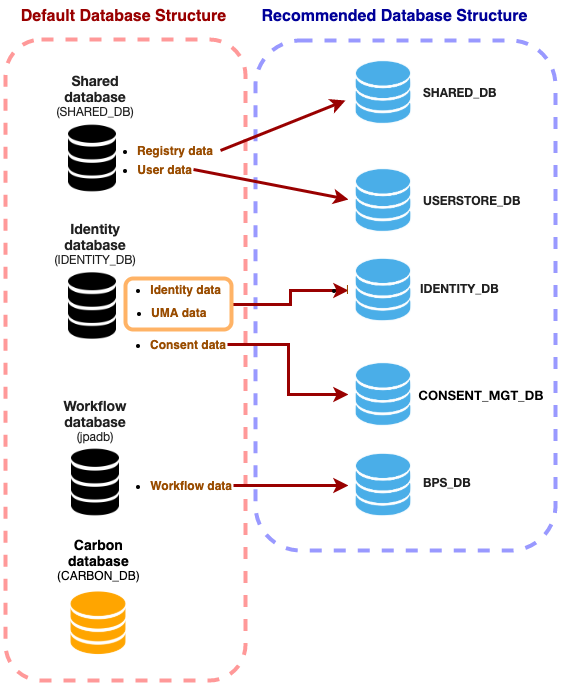
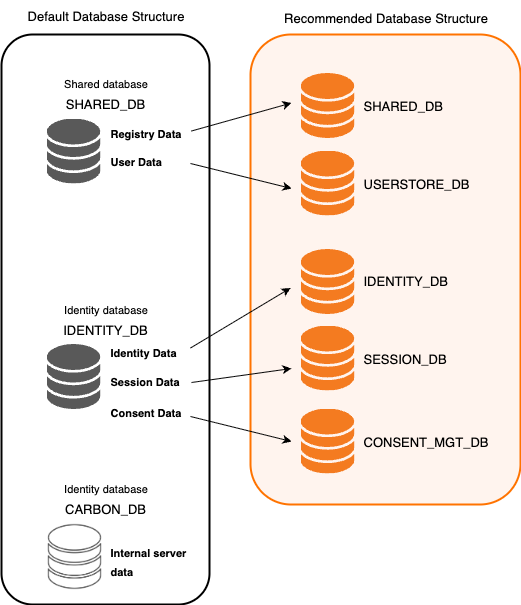
Refactor clustering db config docs and images

Changed region(s): [[0.0, 0.0, 1.0, 1.0]]

diff --git a/en/identity-server/7.0.0/docs/deploy/set-up-separate-databases-for-clustering.md b/en/identity-server/7.0.0/docs/deploy/set-up-separate-databases-for-clustering.md
@@ -1,75 +1,1 @@
-# Seperate Databases for Clustering
-
-WSO2 Identity Server uses a database to store information such as user management details and identity data. By default, WSO2 Identity Server is shipped with an embedded H2 database that works for all types of data.
-
-This section guides you through the logical separation of data that you
-can do when clustering WSO2 Identity Server.
-
-!!! warning "Embedded H2 is NOT RECOMMENDED in production"
-    The embedded H2 database is not recommended for enterprise testing and production environments. It has lower performance, and clustering limitations, and can cause file corruption failures. Therefore, use an industry-standard RDBMS such as Oracle, PostgreSQL, MySQL, or MS SQL instead.
-
-    !!! tip "Before you begin"
-        Creating separate databases as shown below is not mandatory. Instead, you can point to all the following data sources according to the default data structure. This will not make a difference in performance. <!-- TODO For more information on default database structure, see [Working with Databases]({{base_path}}/deploy/work-with-databases).-->
-
-The following image shows the default database structure and a recommended database structure for the logical separation of data.
-
-![Separate-databases-for-clustering]({{base_path}}/assets/img/setup/deploy/separate-databases-for-clustering.png)
-
-<table>
-<thead>
-<tr class="header">
-<th>Database Name</th>
-<th>Description</th>
-</tr>
-</thead>
-<tbody>
-<tr class="odd">
-<td><code>USERSTORE_DB</code></td>
-<td>
-<li>Mainly contains users and roles of the system</li>
-<li>Contains authorization manager configurations, internal permissions, and roles</li>
-<li>In the default database configuration, user data and registry data are located inside <code>SHARED_DB</code>.
-.</li>
-<li>For more information, see <a href="{{base_path}}/guides/users/user-stores/">Configure Userstores</a>.</li>
-</td>
-</tr>
-<tr class="even">
-<td><code>IDENTITY_DB</code></td>
-<td>
-<li>This contains identity-related data. For example, user sessions, OAuth 2.0, SAML 2.0, User Managed Access (UMA), etc.</li>
-<li>In the default database configuration, all the UMA, consent, and identity data are located  in the <code>IDENTITY_DB</code>. In a deployment, both identity and UMA can be configured in a single database while consent data is configured to a separate database `CONSENT_MGT`</li>.
-<!--<li>For more information, see <a href="{{base_path}}/deploy/work-with-databases">Working with Databases</a>.</li>-->
-</td>
-</tr>
-<tr class="even">
-<td><code>BPS_DB</code></td>
-<td>
-<li>This is used to create, drop, and truncate data pertaining to the workflow feature.</li>
-<!-- TODO <li>For more information, see <a href="{{base_path}}/deploy/change-datasource-bpsds">Change the Default Datasource for BPS</a>.</li>-->
-</td>
-</tr>
-<tr class="odd">
-<td><code>SHARED_DB</code></td>
-<td>
-<li>This is the shared database for config and governance registry mounts in WSO2 Identity Server's nodes. This includes data on tenants and keystores.</li>
-<li>In the default database configuration, user data and registry data are located inside <code>SHARED_DB</code>.
-During a deployment, user data can be configured to a different database, <code>USERSTORE_DB</code> while the registry
- data remains in the <code>SHARED_DB</code>
-.</li>
-<!-- TODO <li>For more information, see <a href="{{base_path}}/deploy/work-with-databases">Working with Databases</a>.</li>-->
-</td>
-</tr>
-<tr class="even">
-<td><code>CONSENT_MGT</code></td>
-<td>
-<li>Used for data pertaining to user consents</li>
-<li>In the default database configuration, UMA, consent, and identity data are located <code>IDENTITY_DB</code>.
-In a deployment, both identity and UMA can be configured in a single database while consent data is configured to a separate database.</li>
-<!-- TODO <li>For more information, see <a href="{{base_path}}/deploy/change-datasource-consent-management">Change the Default Datasource for Consent Management</a>.</li>-->
-</td>
-</tr>
-</tbody>
-</table>
-
-<!-- TODO !!! note
-    For more information on `SHARED_DB` and `IDENTITY_DB`, see [Working with Databases]({{base_path}}/deploy/work-with-databases/).-->
+{% include "../../../../includes/deploy/configure/databases/clustering.md" %}

diff --git a/en/identity-server/7.1.0/docs/deploy/set-up-separate-databases-for-clustering.md b/en/identity-server/7.1.0/docs/deploy/set-up-separate-databases-for-clustering.md
@@ -1,75 +1,1 @@
-# Seperate Databases for Clustering
-
-WSO2 Identity Server uses a database to store information such as user management details and identity data. By default, WSO2 Identity Server is shipped with an embedded H2 database that works for all types of data.
-
-This section guides you through the logical separation of data that you
-can do when clustering WSO2 Identity Server.
-
-!!! warning "Embedded H2 is NOT RECOMMENDED in production"
-    The embedded H2 database is not recommended for enterprise testing and production environments. It has lower performance, and clustering limitations, and can cause file corruption failures. Therefore, use an industry-standard RDBMS such as Oracle, PostgreSQL, MySQL, or MS SQL instead.
-
-    !!! tip "Before you begin"
-        Creating separate databases as shown below is not mandatory. Instead, you can point to all the following data sources according to the default data structure. This will not make a difference in performance. <!-- TODO For more information on default database structure, see [Working with Databases]({{base_path}}/deploy/work-with-databases).-->
-
-The following image shows the default database structure and a recommended database structure for the logical separation of data.
-
-![Separate-databases-for-clustering]({{base_path}}/assets/img/setup/deploy/separate-databases-for-clustering.png)
-
-<table>
-<thead>
-<tr class="header">
-<th>Database Name</th>
-<th>Description</th>
-</tr>
-</thead>
-<tbody>
-<tr class="odd">
-<td><code>USERSTORE_DB</code></td>
-<td>
-<li>Mainly contains users and roles of the system</li>
-<li>Contains authorization manager configurations, internal permissions, and roles</li>
-<li>In the default database configuration, user data and registry data are located inside <code>SHARED_DB</code>.
-.</li>
-<li>For more information, see <a href="{{base_path}}/guides/users/user-stores/">Configure Userstores</a>.</li>
-</td>
-</tr>
-<tr class="even">
-<td><code>IDENTITY_DB</code></td>
-<td>
-<li>This contains identity-related data. For example, user sessions, OAuth 2.0, SAML 2.0, User Managed Access (UMA), etc.</li>
-<li>In the default database configuration, all the UMA, consent, and identity data are located  in the <code>IDENTITY_DB</code>. In a deployment, both identity and UMA can be configured in a single database while consent data is configured to a separate database `CONSENT_MGT`</li>.
-<!--<li>For more information, see <a href="{{base_path}}/deploy/work-with-databases">Working with Databases</a>.</li>-->
-</td>
-</tr>
-<tr class="even">
-<td><code>BPS_DB</code></td>
-<td>
-<li>This is used to create, drop, and truncate data pertaining to the workflow feature.</li>
-<!-- TODO <li>For more information, see <a href="{{base_path}}/deploy/change-datasource-bpsds">Change the Default Datasource for BPS</a>.</li>-->
-</td>
-</tr>
-<tr class="odd">
-<td><code>SHARED_DB</code></td>
-<td>
-<li>This is the shared database for config and governance registry mounts in WSO2 Identity Server's nodes. This includes data on tenants and keystores.</li>
-<li>In the default database configuration, user data and registry data are located inside <code>SHARED_DB</code>.
-During a deployment, user data can be configured to a different database, <code>USERSTORE_DB</code> while the registry
- data remains in the <code>SHARED_DB</code>
-.</li>
-<!-- TODO <li>For more information, see <a href="{{base_path}}/deploy/work-with-databases">Working with Databases</a>.</li>-->
-</td>
-</tr>
-<tr class="even">
-<td><code>CONSENT_MGT</code></td>
-<td>
-<li>Used for data pertaining to user consents</li>
-<li>In the default database configuration, UMA, consent, and identity data are located <code>IDENTITY_DB</code>.
-In a deployment, both identity and UMA can be configured in a single database while consent data is configured to a separate database.</li>
-<!-- TODO <li>For more information, see <a href="{{base_path}}/deploy/change-datasource-consent-management">Change the Default Datasource for Consent Management</a>.</li>-->
-</td>
-</tr>
-</tbody>
-</table>
-
-<!-- TODO !!! note
-    For more information on `SHARED_DB` and `IDENTITY_DB`, see [Working with Databases]({{base_path}}/deploy/work-with-databases/).-->
+{% include "../../../../includes/deploy/configure/databases/clustering.md" %}

diff --git a/en/identity-server/next/docs/deploy/set-up-separate-databases-for-clustering.md b/en/identity-server/next/docs/deploy/set-up-separate-databases-for-clustering.md
@@ -1,75 +1,1 @@
-# Seperate Databases for Clustering
-
-WSO2 Identity Server uses a database to store information such as user management details and identity data. By default, WSO2 Identity Server is shipped with an embedded H2 database that works for all types of data.
-
-This section guides you through the logical separation of data that you
-can do when clustering WSO2 Identity Server.
-
-!!! warning "Embedded H2 is NOT RECOMMENDED in production"
-    The embedded H2 database is not recommended for enterprise testing and production environments. It has lower performance, and clustering limitations, and can cause file corruption failures. Therefore, use an industry-standard RDBMS such as Oracle, PostgreSQL, MySQL, or MS SQL instead.
-
-    !!! tip "Before you begin"
-        Creating separate databases as shown below is not mandatory. Instead, you can point to all the following data sources according to the default data structure. This will not make a difference in performance. <!-- TODO For more information on default database structure, see [Working with Databases]({{base_path}}/deploy/work-with-databases).-->
-
-The following image shows the default database structure and a recommended database structure for the logical separation of data.
-
-![Separate-databases-for-clustering]({{base_path}}/assets/img/setup/deploy/separate-databases-for-clustering.png)
-
-<table>
-<thead>
-<tr class="header">
-<th>Database Name</th>
-<th>Description</th>
-</tr>
-</thead>
-<tbody>
-<tr class="odd">
-<td><code>USERSTORE_DB</code></td>
-<td>
-<li>Mainly contains users and roles of the system</li>
-<li>Contains authorization manager configurations, internal permissions, and roles</li>
-<li>In the default database configuration, user data and registry data are located inside <code>SHARED_DB</code>.
-.</li>
-<li>For more information, see <a href="{{base_path}}/guides/users/user-stores/">Configure Userstores</a>.</li>
-</td>
-</tr>
-<tr class="even">
-<td><code>IDENTITY_DB</code></td>
-<td>
-<li>This contains identity-related data. For example, user sessions, OAuth 2.0, SAML 2.0, User Managed Access (UMA), etc.</li>
-<li>In the default database configuration, all the UMA, consent, and identity data are located  in the <code>IDENTITY_DB</code>. In a deployment, both identity and UMA can be configured in a single database while consent data is configured to a separate database `CONSENT_MGT`</li>.
-<!--<li>For more information, see <a href="{{base_path}}/deploy/work-with-databases">Working with Databases</a>.</li>-->
-</td>
-</tr>
-<tr class="even">
-<td><code>BPS_DB</code></td>
-<td>
-<li>This is used to create, drop, and truncate data pertaining to the workflow feature.</li>
-<!-- TODO <li>For more information, see <a href="{{base_path}}/deploy/change-datasource-bpsds">Change the Default Datasource for BPS</a>.</li>-->
-</td>
-</tr>
-<tr class="odd">
-<td><code>SHARED_DB</code></td>
-<td>
-<li>This is the shared database for config and governance registry mounts in WSO2 Identity Server's nodes. This includes data on tenants and keystores.</li>
-<li>In the default database configuration, user data and registry data are located inside <code>SHARED_DB</code>.
-During a deployment, user data can be configured to a different database, <code>USERSTORE_DB</code> while the registry
- data remains in the <code>SHARED_DB</code>
-.</li>
-<!-- TODO <li>For more information, see <a href="{{base_path}}/deploy/work-with-databases">Working with Databases</a>.</li>-->
-</td>
-</tr>
-<tr class="even">
-<td><code>CONSENT_MGT</code></td>
-<td>
-<li>Used for data pertaining to user consents</li>
-<li>In the default database configuration, UMA, consent, and identity data are located <code>IDENTITY_DB</code>.
-In a deployment, both identity and UMA can be configured in a single database while consent data is configured to a separate database.</li>
-<!-- TODO <li>For more information, see <a href="{{base_path}}/deploy/change-datasource-consent-management">Change the Default Datasource for Consent Management</a>.</li>-->
-</td>
-</tr>
-</tbody>
-</table>
-
-<!-- TODO !!! note
-    For more information on `SHARED_DB` and `IDENTITY_DB`, see [Working with Databases]({{base_path}}/deploy/work-with-databases/).-->
+{% include "../../../../includes/deploy/configure/databases/clustering.md" %}

diff --git a/en/includes/deploy/configure/databases/clustering.md b/en/includes/deploy/configure/databases/clustering.md
@@ -1,0 +1,44 @@
+# Separate databases for clustering
+
+WSO2 Identity Server uses a database to store information such as user management details and identity data. By default, WSO2 Identity Server is shipped with an embedded H2 database that works for all types of data.
+
+!!! warning "Embedded H2 is NOT RECOMMENDED in production"
+    The embedded H2 database does not suit enterprise testing or production. It gives lower performance, clustering limitations, and file corruption failures. Use an industry-standard RDBMS such as Oracle, PostgreSQL, MySQL, or MS SQL.
+
+!!! tip "Before you begin"
+    Creating separate databases as shown below is not mandatory. You can point all the following data sources to the default data structure. This does not affect performance. For more information, see [Working with Databases]({{base_path}}/deploy/work-with-databases).
+
+The following image shows the default database structure and a recommended database structure for logical separation.
+
+![Separate-databases-for-clustering]({{base_path}}/assets/img/setup/deploy/separate-databases-for-clustering.png)
+
+**SHARED_DB**
+
+- Shared database for config and governance registry mounts in WSO2 Identity Server's nodes. This includes data on tenants and keystores.
+- For more information, see [Change the default databases]({{base_path}}/deploy/configure/databases/carbon-database).
+
+**USERSTORE_DB**
+
+- Mainly contains users and roles of the system.
+- Contains authorization manager configurations, internal permissions, and roles.
+- Userstore databases separation is required when using an external userstore such as LDAP or Active Directory.
+- For more information, see [Configure Userstores]({{base_path}}/guides/users/user-stores/).
+
+**IDENTITY_DB**
+
+- Contains identity-related data. For example, user sessions, OAuth 2.0, SAML 2.0, etc.
+
+**SESSION_DB**
+
+- Stores session-related data. For example, user sessions, session contexts, etc.
+- Session database separation is recommended for deployments that require higher concurrency and throughput.
+- For more information, see [Change the Datasource for Session Database]({{base_path}}/deploy/configure/databases/carbon-database/change-datasource-session/).
+
+**CONSENT_MGT**
+
+- Used for data pertaining to user consents.
+- This separation was used to share consent data across multiple WSO2 products, but now it is not required.
+- For more information, see [Change the Default Datasource for Consent Management]({{base_path}}/deploy/change-datasource-consent-management).
+
+<!-- TODO !!! note
+    For more information on `SHARED_DB` and `IDENTITY_DB`, see [Working with Databases]({{base_path}}/deploy/work-with-databases/).-->
